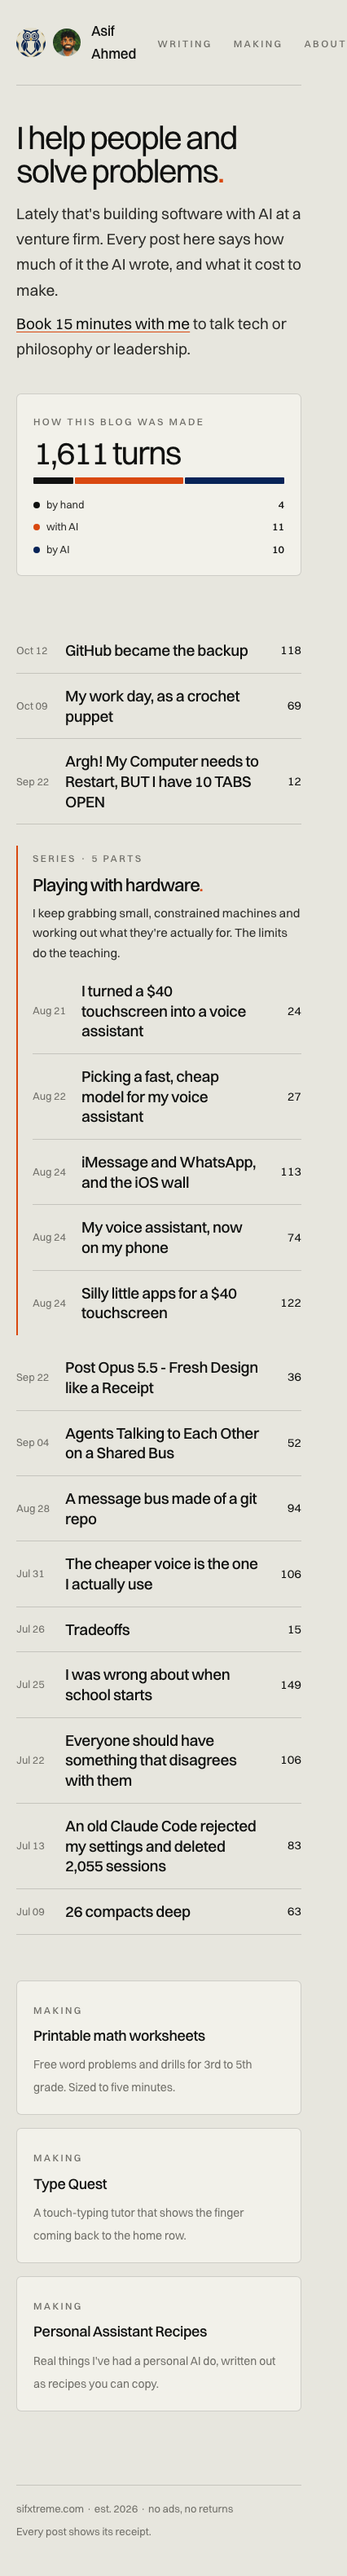
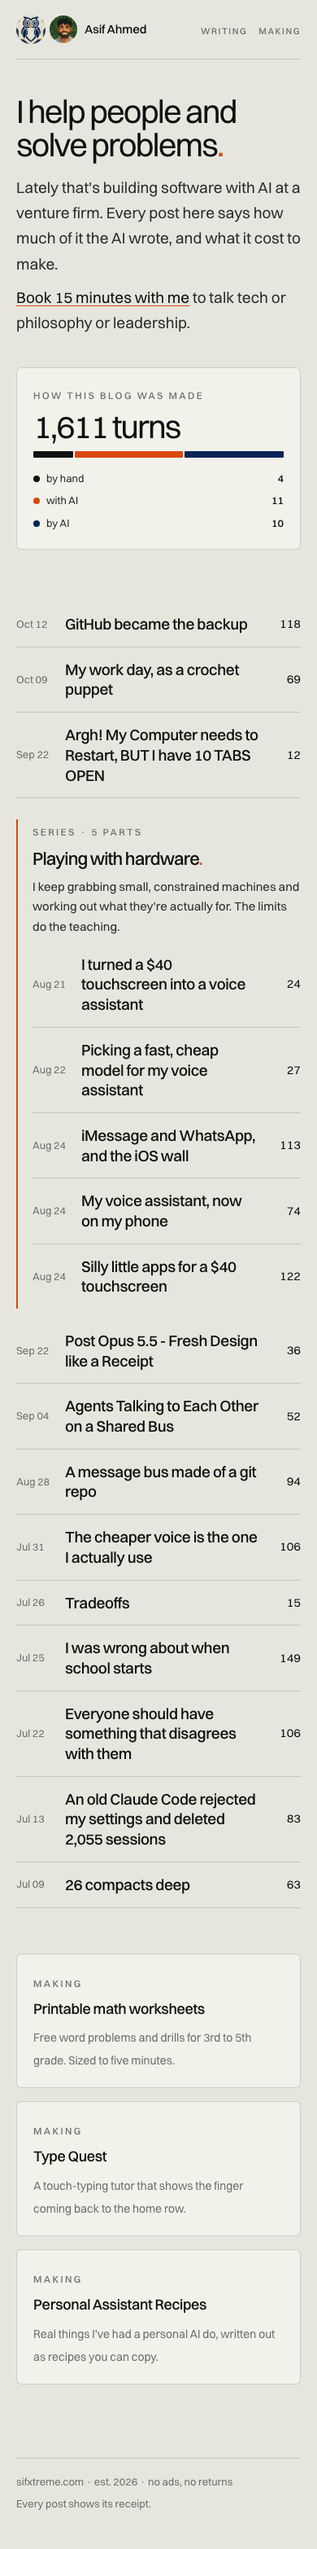
New-style mockups: add 3b (ledger in navy and gold); fix phone header overflow in 3
Before: Asif liked the receipt ledger but wanted the blue and gold from direction 2; 3's phone header overflowed to 426px after the photo went in
After: 3b mockup (home and post, 1280 and 390) beside 3 in COMPARE.md; both phone headers fit 390px

Shot: none (mockups only, nothing deployed)
Verify: scrollWidth 390 on all 8 phone pages

Claude-Session: https://claude.ai/code/session_016ojUBPgmXXcEoKHLCzeHFu

diff --git a/src/designs/2026-11-20-new-style/3b-ledger-navy-gold/style.css b/src/designs/2026-11-20-new-style/3b-ledger-navy-gold/style.css
@@ -1,0 +1,62 @@
+:root{--paper:#faf7ec;--box:#fffdf6;--ink:#072357;--body:#26324f;--muted:#5d6783;--line:rgba(7,35,87,.16);--accent:#c99a2a;--gold-text:#7f5d0c;--navy:#072357;
+--hw:#072357;--di:#5d6783;--as:#c99a2a;--ai:#5a74b3}
+body{margin:0;background:var(--paper);color:var(--body);font:400 17px/1.65 Switzer,"Helvetica Neue",Arial,sans-serif;-webkit-font-smoothing:antialiased;font-variant-numeric:tabular-nums}
+a{color:var(--ink);text-decoration:underline;text-decoration-color:var(--accent);text-underline-offset:3px;text-decoration-thickness:1px}
+.wrap{max-width:1080px;margin:0 auto;padding:0 40px}
+.label{font-size:12px;font-weight:500;letter-spacing:.2em;text-transform:uppercase;color:var(--muted)}
+header.top{display:flex;justify-content:space-between;align-items:center;padding:24px 0;border-bottom:1px solid var(--line)}
+.brand{display:flex;align-items:center;gap:12px;font-weight:500;color:var(--ink);text-decoration:none;letter-spacing:-.01em}
+.brand .seal-owl{width:36px;height:36px;mix-blend-mode:multiply}
+nav a{font-size:12px;font-weight:500;letter-spacing:.2em;text-transform:uppercase;text-decoration:none;color:var(--muted);margin-left:26px}
+.hero{display:grid;grid-template-columns:1fr 360px;gap:60px;align-items:end;padding:76px 0 44px}
+h1.big{font-weight:400;font-size:62px;line-height:1.02;letter-spacing:-.05em;color:var(--ink);margin:0 0 16px;max-width:14ch}
+h1.big i,h1.title i,h2::after{font-style:normal;color:var(--accent)}
+.hero p{margin:0 0 10px;font-size:19px;max-width:30em}
+.tally{background:var(--box);border:1px solid var(--line);border-radius:6px;padding:18px 20px}
+.tally .big{font-size:40px;letter-spacing:-.05em;color:var(--ink);line-height:1;margin:6px 0 10px}
+.bar{display:flex;height:8px;gap:2px;margin-bottom:12px}.bar i{display:block;border-radius:1px}
+.leg{display:flex;justify-content:space-between;font-size:13px;color:var(--body);padding:3px 0}.leg b{font-weight:500;color:var(--ink)}
+.dot{display:inline-block;width:8px;height:8px;border-radius:50%;margin-right:8px}
+.hw{background:var(--hw)}.di{background:var(--di)}.as{background:var(--as)}.ai{background:var(--ai)}
+.ledger{margin-top:20px}
+.lh,.lr{display:grid;grid-template-columns:62px 1fr 110px 62px;gap:20px;align-items:center}
+.lh{padding:10px 0;border-top:1px solid var(--ink);border-bottom:1px solid var(--line)}
+.lr{padding:15px 0;border-bottom:1px solid var(--line);text-decoration:none;color:var(--ink)}
+.lr .d{font-size:13px;color:var(--muted)}.lr .t{font-size:19px;font-weight:500;letter-spacing:-.02em;line-height:1.3}
+.lr .h{font-size:11px;font-weight:600;letter-spacing:.16em}.lr .h .dot{margin-right:6px}
+.lr .n{text-align:right;font-size:15px;color:var(--ink)}.lh span:last-child{text-align:right}
+.lr:hover .t{text-decoration:underline;text-decoration-color:var(--accent)}
+.sgrp{border-left:2px solid var(--accent);padding-left:18px;margin:26px 0 12px}
+.sgrp .nm{font-size:22px;letter-spacing:-.04em;font-weight:500;color:var(--ink);margin:2px 0 4px}.sgrp p{margin:0 0 6px;font-size:15px;color:var(--body);max-width:44em}
+.sgrp .lr:last-child{border-bottom:0}
+.making{display:grid;grid-template-columns:repeat(3,1fr);gap:16px;margin:56px 0 0}
+.tile{border:1px solid var(--line);border-radius:6px;background:var(--box);padding:20px}.tile b{display:block;font-weight:500;color:var(--ink);font-size:18px;letter-spacing:-.02em;margin:4px 0 6px}.tile span.x{font-size:14px;line-height:1.5;color:var(--muted)}
+footer{display:flex;justify-content:space-between;margin:90px 0 44px;padding-top:18px;border-top:1px solid var(--line);font-size:13px;color:var(--muted)}
+/* post */
+article{max-width:700px;margin:0 auto;padding:54px 0 0}
+h1.title{font-weight:400;font-size:46px;line-height:1.08;letter-spacing:-.05em;color:var(--ink);margin:12px 0 22px}
+.problem{border-left:2px solid var(--accent);padding:0 0 0 18px;margin:0 0 26px;font-size:20px;line-height:1.4;color:var(--ink);letter-spacing:-.015em}
+.problem .label{display:block;font-size:11px;margin-bottom:4px}
+.meta{display:flex;gap:22px;flex-wrap:wrap;align-items:center;padding:12px 0;border-top:1px solid var(--line);border-bottom:1px solid var(--line);margin-bottom:34px;font-size:12px;letter-spacing:.2em;text-transform:uppercase;font-weight:500;color:var(--muted)}
+.meta b{color:var(--ink);font-weight:500}
+article h2{font-weight:500;font-size:27px;letter-spacing:-.04em;color:var(--ink);margin:44px 0 10px;line-height:1.15}
+article h2::after{content:"."}
+article p{margin:0 0 18px}p.lead{font-size:20px;line-height:1.55;color:var(--ink)}
+code{font-family:ui-monospace,Menlo,monospace;font-size:.86em;background:rgba(7,35,87,.07);padding:1px 5px;border-radius:3px;color:var(--ink)}
+pre{background:var(--navy);color:#f4efdc;border-radius:6px;padding:16px 18px;overflow:auto;margin:0 0 22px}pre code{background:none;color:#f4efdc;font-size:13.5px;line-height:1.6;padding:0}pre .c{color:#9aa4c2}
+figure{margin:30px 0;background:var(--box);border:1px solid var(--line);border-radius:6px;padding:20px}figure svg{width:100%;height:auto;display:block}figcaption{font-size:13px;color:var(--muted);margin-top:10px}
+.d-edge{fill:none;stroke:#8a92a8;stroke-width:1.2}.d-edge.d-accent{stroke:var(--accent);stroke-width:1.6}.d-dash{stroke-dasharray:4 4}
+.d-card{fill:#fffdf6;stroke:rgba(7,35,87,.3)}.d-card.d-accent{stroke:var(--accent);stroke-width:1.4}.d-card.d-dim{fill:#f1ecda}
+.d-txt{fill:var(--ink);font-family:Switzer,sans-serif;font-weight:500}.d-txt.d-sub{fill:var(--muted);font-weight:400}.d-txt.d-accent{fill:var(--navy)}
+.rcpt{margin:50px 0 0;background:var(--box);border:1px solid var(--line);border-radius:6px;padding:22px 24px}
+.rcpt .top{display:flex;justify-content:space-between;align-items:baseline}
+.rl{display:flex;align-items:baseline;gap:10px;padding:7px 0;font-size:15px;color:var(--body)}
+.rl i{flex:1;border-bottom:1px dotted rgba(7,35,87,.35);transform:translateY(-4px)}.rl b{font-weight:500;color:var(--ink)}
+.rl.sum{border-top:1px solid var(--ink);margin-top:8px;padding-top:12px;font-size:20px;letter-spacing:-.02em;color:var(--ink)}
+.sign{display:flex;align-items:center;gap:14px;margin:36px 0 0;padding-top:18px;border-top:1px solid var(--line);font-size:14px;color:var(--muted)}
+.sign .seal-owl{width:64px;height:64px;mix-blend-mode:multiply}
+@media(max-width:760px){.wrap{padding:0 20px}.hero{grid-template-columns:1fr;gap:28px;padding-top:44px}h1.big{font-size:40px}.lh{display:none}.lr{grid-template-columns:48px 1fr 40px;gap:12px}.lr .h{display:none}.making{grid-template-columns:1fr}h1.title{font-size:32px}article{padding-top:34px}.meta{gap:12px}footer{flex-direction:column;gap:6px}}
+.brand .me{width:36px;height:36px;border-radius:50%;object-fit:cover;margin-left:-4px;border:1px solid var(--line)}
+.label{color:var(--muted)}.lr .d,.leg,.rl{color:var(--body)}.lr .d{color:var(--muted)}h1.big,h1.title{color:var(--navy)}
+.brand{white-space:nowrap}
+@media(max-width:760px){nav a{margin-left:14px;font-size:11px;letter-spacing:.14em}nav a:last-child{display:none}.brand{gap:8px;font-size:15px}.rl.sum{font-size:16px}header.top{padding:18px 0}}

diff --git a/src/designs/2026-11-20-new-style/3b-ledger-navy-gold/post.html b/src/designs/2026-11-20-new-style/3b-ledger-navy-gold/post.html
@@ -1,0 +1,38 @@
+<!doctype html><html lang="en"><head><title>An old Claude Code rejected my settings</title><meta charset="utf-8"><meta name="viewport" content="width=device-width,initial-scale=1"><link rel="stylesheet" href="../shared/fonts.css"><link rel="stylesheet" href="style.css"></head><body><div class="wrap"><header class="top"><a class="brand" href="#"><span class="seal-owl"></span><img class="me" src="../../../assets/asif-head.png" alt="Asif Ahmed">Asif Ahmed</a><nav><a href="#">Writing</a><a href="#">Making</a><a href="#">About</a></nav></header>
+<article><div class="label">Writing &middot; Jul 13, 2026</div>
+<h1 class="title">An old Claude Code rejected my settings and deleted 2,055 sessions<i>.</i></h1>
+<div class="problem"><span class="label">The question I could not answer</span>Prevent an old Claude binary from deleting sessions after rejecting settings.</div>
+<div class="meta"><span><i class="dot as"></i><b>With AI</b></span><span>Claude &middot; postmortem</span><span>83 turns</span></div>
+<p class="lead">Four days ago I published a post that said: Claude Code deletes your session transcripts after 30 days, so <a href="#">change one setting and they stick around for a year</a>.</p>
+<p>I had changed the setting. It said 365.</p>
+<p>Today I went looking for a session from May and there wasn't one. There was nothing from May at all. Nothing from April either. The oldest transcript on my machine was from June 13, exactly thirty days ago, and the same was true on my other machine.</p>
+<p><b class="num">2,055</b> sessions, dated March 27 through June 12. That number is the count of records in my search index whose transcript file no longer exists on disk. No Time Machine, no snapshots, nothing recoverable.</p>
+<h2>The setting was set</h2>
+<p>This is what made it feel impossible.</p>
+<p><code>~/.claude/settings.json</code> said <code>"cleanupPeriodDays": 365</code>. Valid JSON. No managed-settings file, no project override. And I could prove its history, because a nightly job commits that file to git: it was 90 from May 20 to July 9, then 365. Never absent. Never 30.</p>
+<p>Thirty is not a number I picked. Thirty is the number Claude Code falls back to when the setting isn't there. So whatever was doing this wasn't overriding my setting. It was never seeing it.</p>
+<h2>The cause</h2>
+<p>My agent stack runs on the Claude Agent SDK, pinned to <code>@anthropic-ai/claude-code@1.0.128</code>. So while my laptop runs Claude Code 2.1.207, my agent has quietly been running a build from a different era against the same <code>~/.claude</code>. And 1.0.128 cannot parse my settings file.</p>
+<p>When validation fails, the loader doesn't discard the key it didn't like. It discards the entire file:</p>
+<pre><code><span class="c">// paraphrased from the 1.0.128 bundle</span>
+const parsed = schema.safeParse(raw)
+if (!parsed.success) return { settings: null, errors: [...] }</code></pre>
+<figure>
+<svg viewBox="0 0 776 208" xmlns="http://www.w3.org/2000/svg" role="img" aria-label="Two lanes reading one settings file. The current Claude keeps sessions for 365 days. The old Claude throws the file away and deletes after 30 days."><defs><marker id="dg-arrow" viewBox="0 0 10 10" refX="8" refY="5" markerWidth="7" markerHeight="7" orient="auto-start-reverse"><path d="M0 0 L10 5 L0 10 z" fill="context-stroke"/></marker></defs>
+<path class="d-edge d-accent" d="M180 90 C230 72 244 62 268 60" marker-end="url(#dg-arrow)"/><path class="d-edge d-accent" d="M474 58 L512 58" marker-end="url(#dg-arrow)"/>
+<path class="d-edge d-dash" d="M180 118 C230 136 244 146 268 148" marker-end="url(#dg-arrow)"/><path class="d-edge d-dash" d="M474 148 L512 148" marker-end="url(#dg-arrow)"/>
+<rect class="d-card" x="24" y="76" width="156" height="58" rx="6"/><text class="d-txt" x="102" y="101" text-anchor="middle" font-size="14">settings file</text><text class="d-txt d-sub" x="102" y="120" text-anchor="middle" font-size="11.5">keep 365 days</text>
+<rect class="d-card d-accent" x="270" y="30" width="204" height="56" rx="6"/><text class="d-txt d-accent" x="372" y="54" text-anchor="middle" font-size="14">laptop, current Claude</text><text class="d-txt d-sub" x="372" y="72" text-anchor="middle" font-size="11.5">understands every key</text>
+<rect class="d-card d-accent" x="514" y="30" width="176" height="56" rx="6"/><text class="d-txt d-accent" x="602" y="63" text-anchor="middle" font-size="14">keeps 365 days</text>
+<rect class="d-card d-dim" x="270" y="120" width="204" height="56" rx="6"/><text class="d-txt" x="372" y="144" text-anchor="middle" font-size="14">agent, old Claude</text><text class="d-txt d-sub" x="372" y="162" text-anchor="middle" font-size="11.5">hits a key it never heard of</text>
+<rect class="d-card d-dim" x="514" y="120" width="176" height="56" rx="6"/><text class="d-txt" x="602" y="144" text-anchor="middle" font-size="13.5">throws the file away</text><text class="d-txt d-sub" x="602" y="162" text-anchor="middle" font-size="11.5">deletes after 30 days</text></svg>
+<figcaption>Same file. Two readers. Only one of them throws it away.</figcaption></figure>
+<h2>The reproduction</h2>
+<p>Three runs, three settings files. The new file always survives, so this is age-based, not a blanket wipe. The old file dies only when the hooks block is there.</p>
+<pre><code>my real settings.json         OLD-200d = DELETED   NEW-today = alive
+same, with hooks removed      OLD-200d = alive     NEW-today = alive
+{ cleanupPeriodDays: 365 }    OLD-200d = alive     NEW-today = alive</code></pre>
+<div class="rcpt"><div class="top"><span class="label">The receipt</span><span class="label">Jul 13, 2026</span></div>
+<div class="rl"><span>Model</span><i></i><b>claude-opus-4-8</b></div><div class="rl"><span>Instructions I gave</span><i></i><b>5</b></div><div class="rl"><span>Turns</span><i></i><b>83</b></div><div class="rl"><span>Tool calls</span><i></i><b>35</b></div><div class="rl"><span>Redeploys</span><i></i><b>14</b></div><div class="rl"><span>Live after</span><i></i><b>31 min</b></div><div class="rl sum"><span>Pangram v3.3.2</span><i></i><b>100% AI-detected</b></div></div>
+<div class="sign"><span class="seal-owl"></span><span>Written by Asif, with Claude. No ads, no tracking beyond a page view.</span></div>
+</article><footer><span>sifxtreme.com &middot; est. 2026 &middot; no ads, no returns</span><span>Every post shows its receipt.</span></footer></div></body></html>

diff --git a/src/designs/2026-11-20-new-style/3b-ledger-navy-gold/home.html b/src/designs/2026-11-20-new-style/3b-ledger-navy-gold/home.html
@@ -1,0 +1,25 @@
+<!doctype html><html lang="en"><head><title>Asif Ahmed (3b)</title><meta charset="utf-8"><meta name="viewport" content="width=device-width,initial-scale=1"><link rel="stylesheet" href="../shared/fonts.css"><link rel="stylesheet" href="style.css"></head><body><div class="wrap"><header class="top"><a class="brand" href="#"><span class="seal-owl"></span><img class="me" src="../../../assets/asif-head.png" alt="Asif Ahmed">Asif Ahmed</a><nav><a href="#">Writing</a><a href="#">Making</a><a href="#">About</a></nav></header>
+<div class="hero"><div><h1 class="big">I help people and solve problems<i>.</i></h1><p>Lately that's building software with AI at a venture firm. Every post here says how much of it the AI wrote, and what it cost to make.</p><p><a href="#">Book 15 minutes with me</a> to talk tech or philosophy or leadership.</p></div>
+<div class="tally"><span class="label">How this blog was made</span><div class="big">1,611 turns</div><div class="bar"><i class="hw" style="flex:4"></i><i class="as" style="flex:11"></i><i class="ai" style="flex:10"></i></div>
+<div class="leg"><span><i class="dot hw"></i>by hand</span><b>4</b></div><div class="leg"><span><i class="dot as"></i>with AI</span><b>11</b></div><div class="leg"><span><i class="dot ai"></i>by AI</span><b>10</b></div></div></div>
+<div class="ledger"><div class="lh label"><span>Date</span><span>Writing</span><span>Made</span><span>Turns</span></div>
+<a class="lr" href="#"><span class="d">Oct 12</span><span class="t">GitHub became the backup</span><span class="h"><i class="dot ai"></i>BY AI</span><span class="n">118</span></a>
+<a class="lr" href="#"><span class="d">Oct 09</span><span class="t">My work day, as a crochet puppet</span><span class="h"><i class="dot ai"></i>BY AI</span><span class="n">69</span></a>
+<a class="lr" href="#"><span class="d">Sep 22</span><span class="t">Argh! My Computer needs to Restart, BUT I have 10 TABS OPEN</span><span class="h"><i class="dot as"></i>WITH AI</span><span class="n">12</span></a>
+<div class="sgrp"><span class="label">Series &middot; 5 parts</span><div class="nm">Playing with hardware<span style="color:var(--accent)">.</span></div><p>I keep grabbing small, constrained machines and working out what they're actually for. The limits do the teaching.</p>
+<a class="lr" href="#"><span class="d">Aug 21</span><span class="t">I turned a $40 touchscreen into a voice assistant</span><span class="h"><i class="dot ai"></i>BY AI</span><span class="n">24</span></a>
+<a class="lr" href="#"><span class="d">Aug 22</span><span class="t">Picking a fast, cheap model for my voice assistant</span><span class="h"><i class="dot ai"></i>BY AI</span><span class="n">27</span></a>
+<a class="lr" href="#"><span class="d">Aug 24</span><span class="t">iMessage and WhatsApp, and the iOS wall</span><span class="h"><i class="dot ai"></i>BY AI</span><span class="n">113</span></a>
+<a class="lr" href="#"><span class="d">Aug 24</span><span class="t">My voice assistant, now on my phone</span><span class="h"><i class="dot ai"></i>BY AI</span><span class="n">74</span></a>
+<a class="lr" href="#"><span class="d">Aug 24</span><span class="t">Silly little apps for a $40 touchscreen</span><span class="h"><i class="dot ai"></i>BY AI</span><span class="n">122</span></a></div>
+<a class="lr" href="#"><span class="d">Sep 22</span><span class="t">Post Opus 5.5 - Fresh Design like a Receipt</span><span class="h"><i class="dot hw"></i>BY HAND</span><span class="n">36</span></a>
+<a class="lr" href="#"><span class="d">Sep 04</span><span class="t">Agents Talking to Each Other on a Shared Bus</span><span class="h"><i class="dot as"></i>WITH AI</span><span class="n">52</span></a>
+<a class="lr" href="#"><span class="d">Aug 28</span><span class="t">A message bus made of a git repo</span><span class="h"><i class="dot ai"></i>BY AI</span><span class="n">94</span></a>
+<a class="lr" href="#"><span class="d">Jul 31</span><span class="t">The cheaper voice is the one I actually use</span><span class="h"><i class="dot as"></i>WITH AI</span><span class="n">106</span></a>
+<a class="lr" href="#"><span class="d">Jul 26</span><span class="t">Tradeoffs</span><span class="h"><i class="dot hw"></i>BY HAND</span><span class="n">15</span></a>
+<a class="lr" href="#"><span class="d">Jul 25</span><span class="t">I was wrong about when school starts</span><span class="h"><i class="dot as"></i>WITH AI</span><span class="n">149</span></a>
+<a class="lr" href="#"><span class="d">Jul 22</span><span class="t">Everyone should have something that disagrees with them</span><span class="h"><i class="dot as"></i>WITH AI</span><span class="n">106</span></a>
+<a class="lr" href="#"><span class="d">Jul 13</span><span class="t">An old Claude Code rejected my settings and deleted 2,055 sessions</span><span class="h"><i class="dot as"></i>WITH AI</span><span class="n">83</span></a>
+<a class="lr" href="#"><span class="d">Jul 09</span><span class="t">26 compacts deep</span><span class="h"><i class="dot ai"></i>BY AI</span><span class="n">63</span></a></div>
+<div class="making"><div class="tile"><span class="label">Making</span><b>Printable math worksheets</b><span class="x">Free word problems and drills for 3rd to 5th grade. Sized to five minutes.</span></div><div class="tile"><span class="label">Making</span><b>Type Quest</b><span class="x">A touch-typing tutor that shows the finger coming back to the home row.</span></div><div class="tile"><span class="label">Making</span><b>Personal Assistant Recipes</b><span class="x">Real things I've had a personal AI do, written out as recipes you can copy.</span></div></div>
+<footer><span>sifxtreme.com &middot; est. 2026 &middot; no ads, no returns</span><span>Every post shows its receipt.</span></footer></div></body></html>

diff --git a/src/designs/2026-11-20-new-style/3-receipt-ledger/style.css b/src/designs/2026-11-20-new-style/3-receipt-ledger/style.css
@@ -57,3 +57,5 @@ figure{margin:30px 0;background:var(--box);border:1px solid var(--line);border-r
 .sign .seal-owl{width:64px;height:64px;mix-blend-mode:multiply}
 @media(max-width:760px){.wrap{padding:0 20px}.hero{grid-template-columns:1fr;gap:28px;padding-top:44px}h1.big{font-size:40px}.lh{display:none}.lr{grid-template-columns:48px 1fr 40px;gap:12px}.lr .h{display:none}.making{grid-template-columns:1fr}h1.title{font-size:32px}article{padding-top:34px}.meta{gap:12px}footer{flex-direction:column;gap:6px}}
 .brand .me{width:36px;height:36px;border-radius:50%;object-fit:cover;margin-left:-4px;border:1px solid var(--paper)}
+.brand{white-space:nowrap}
+@media(max-width:760px){nav a{margin-left:14px;font-size:11px;letter-spacing:.14em}nav a:last-child{display:none}.brand{gap:8px;font-size:15px}.rl.sum{font-size:16px}header.top{padding:18px 0}}

diff --git a/src/designs/2026-11-20-new-style/COMPARE.md b/src/designs/2026-11-20-new-style/COMPARE.md
@@ -12,7 +12,7 @@ Direction 1 is the safest. Direction 2 is the most handsome but says "family sit
 All three are static mockups. Nothing is deployed, `global.css` and the live layouts are untouched.
 
 [!ASK] Which direction, and does the seal go on the public site?
-- **Pick:** direction 3, with only the owl cropped from the seal as a small mark and sign-off, not the full lettered seal.
+- **Pick:** direction 3b (the ledger in navy and gold, his choice of colours), with only the owl cropped from the seal as a small mark and sign-off, not the full lettered seal.
 - **Why:** the full seal reads "THE AHMED FAMILY" and is unreadable below about 80 px. The owl alone is legible at 36 px and is not a family name.
 - **Risk:** any seal image on sifxtreme.com is public. It has been kept out of public repos on purpose. Nothing was copied into the blog repo; the mockups load it from its bifrost path, so they only render on this Mac.
 - **Next:** say 1, 2 or 3, and say yes or no to a public owl. Then I build it as a fourth design in `src/designs/` behind the existing `PUBLIC_DESIGN` switch.
@@ -57,7 +57,26 @@ Weak spot: it makes the seal the brand. A family seal on a work-adjacent blog is
 |---|---|
 | ![](shots/2-post-desktop.png) | ![](shots/2-post-phone.png) |
 
-### 3. Receipt ledger (my pick)
+### 3b. Receipt ledger in navy and gold (Asif liked 3, wanted more blue and gold)
+
+Same structure as 3: ledger home, receipts, small owl, his photo in the header. Colours from 2: cream paper, navy ink and rules, gold for the full stops, the series rule, the "with AI" dot, the diagram path and the receipt accents. Orange is gone, with no exceptions. "By hand" is navy, "with AI" is gold, "by AI" is a mid blue.
+Contrast: body text is navy or slate on cream (about 12:1 and 5:1). Links are navy with a gold underline, because gold text on cream is only about 2.5:1 and would fail AA.
+
+| 3 before, home | 3b after, home |
+|---|---|
+| ![](shots/3-home-desktop.png) | ![](shots/3b-home-desktop.png) |
+
+| 3 before, post | 3b after, post |
+|---|---|
+| ![](shots/3-post-desktop.png) | ![](shots/3b-post-desktop.png) |
+
+| Home, 390 | Post, 390 |
+|---|---|
+| ![](shots/3b-home-phone.png) | ![](shots/3b-post-phone.png) |
+
+What read worse in navy and gold: gold is too pale to carry small text, so "with AI" leans on its label and not the dot colour alone; the gold full stops on the small h2s are faint; navy and the mid blue are close at 8 px, so "by hand" and "by AI" dots are hard to tell apart without the label; the page feels softer and less "receipt" than the grey 776 paper.
+
+### 3. Receipt ledger (grey paper, orange)
 
 776 paper, ink and type, with one orange accent kept from today's blog and navy for the owl and for "written by AI". The home page is a ledger: date, title, how it was made, turns. A panel shows how the whole blog was made (1,611 turns; 4 by hand, 11 with AI, 10 by AI). Each post ends with its receipt as dotted-leader lines and a small owl sign-off.
 Best for: it turns his real difference into the design, and it modernises the receipt idea without the paper-tape costume.
